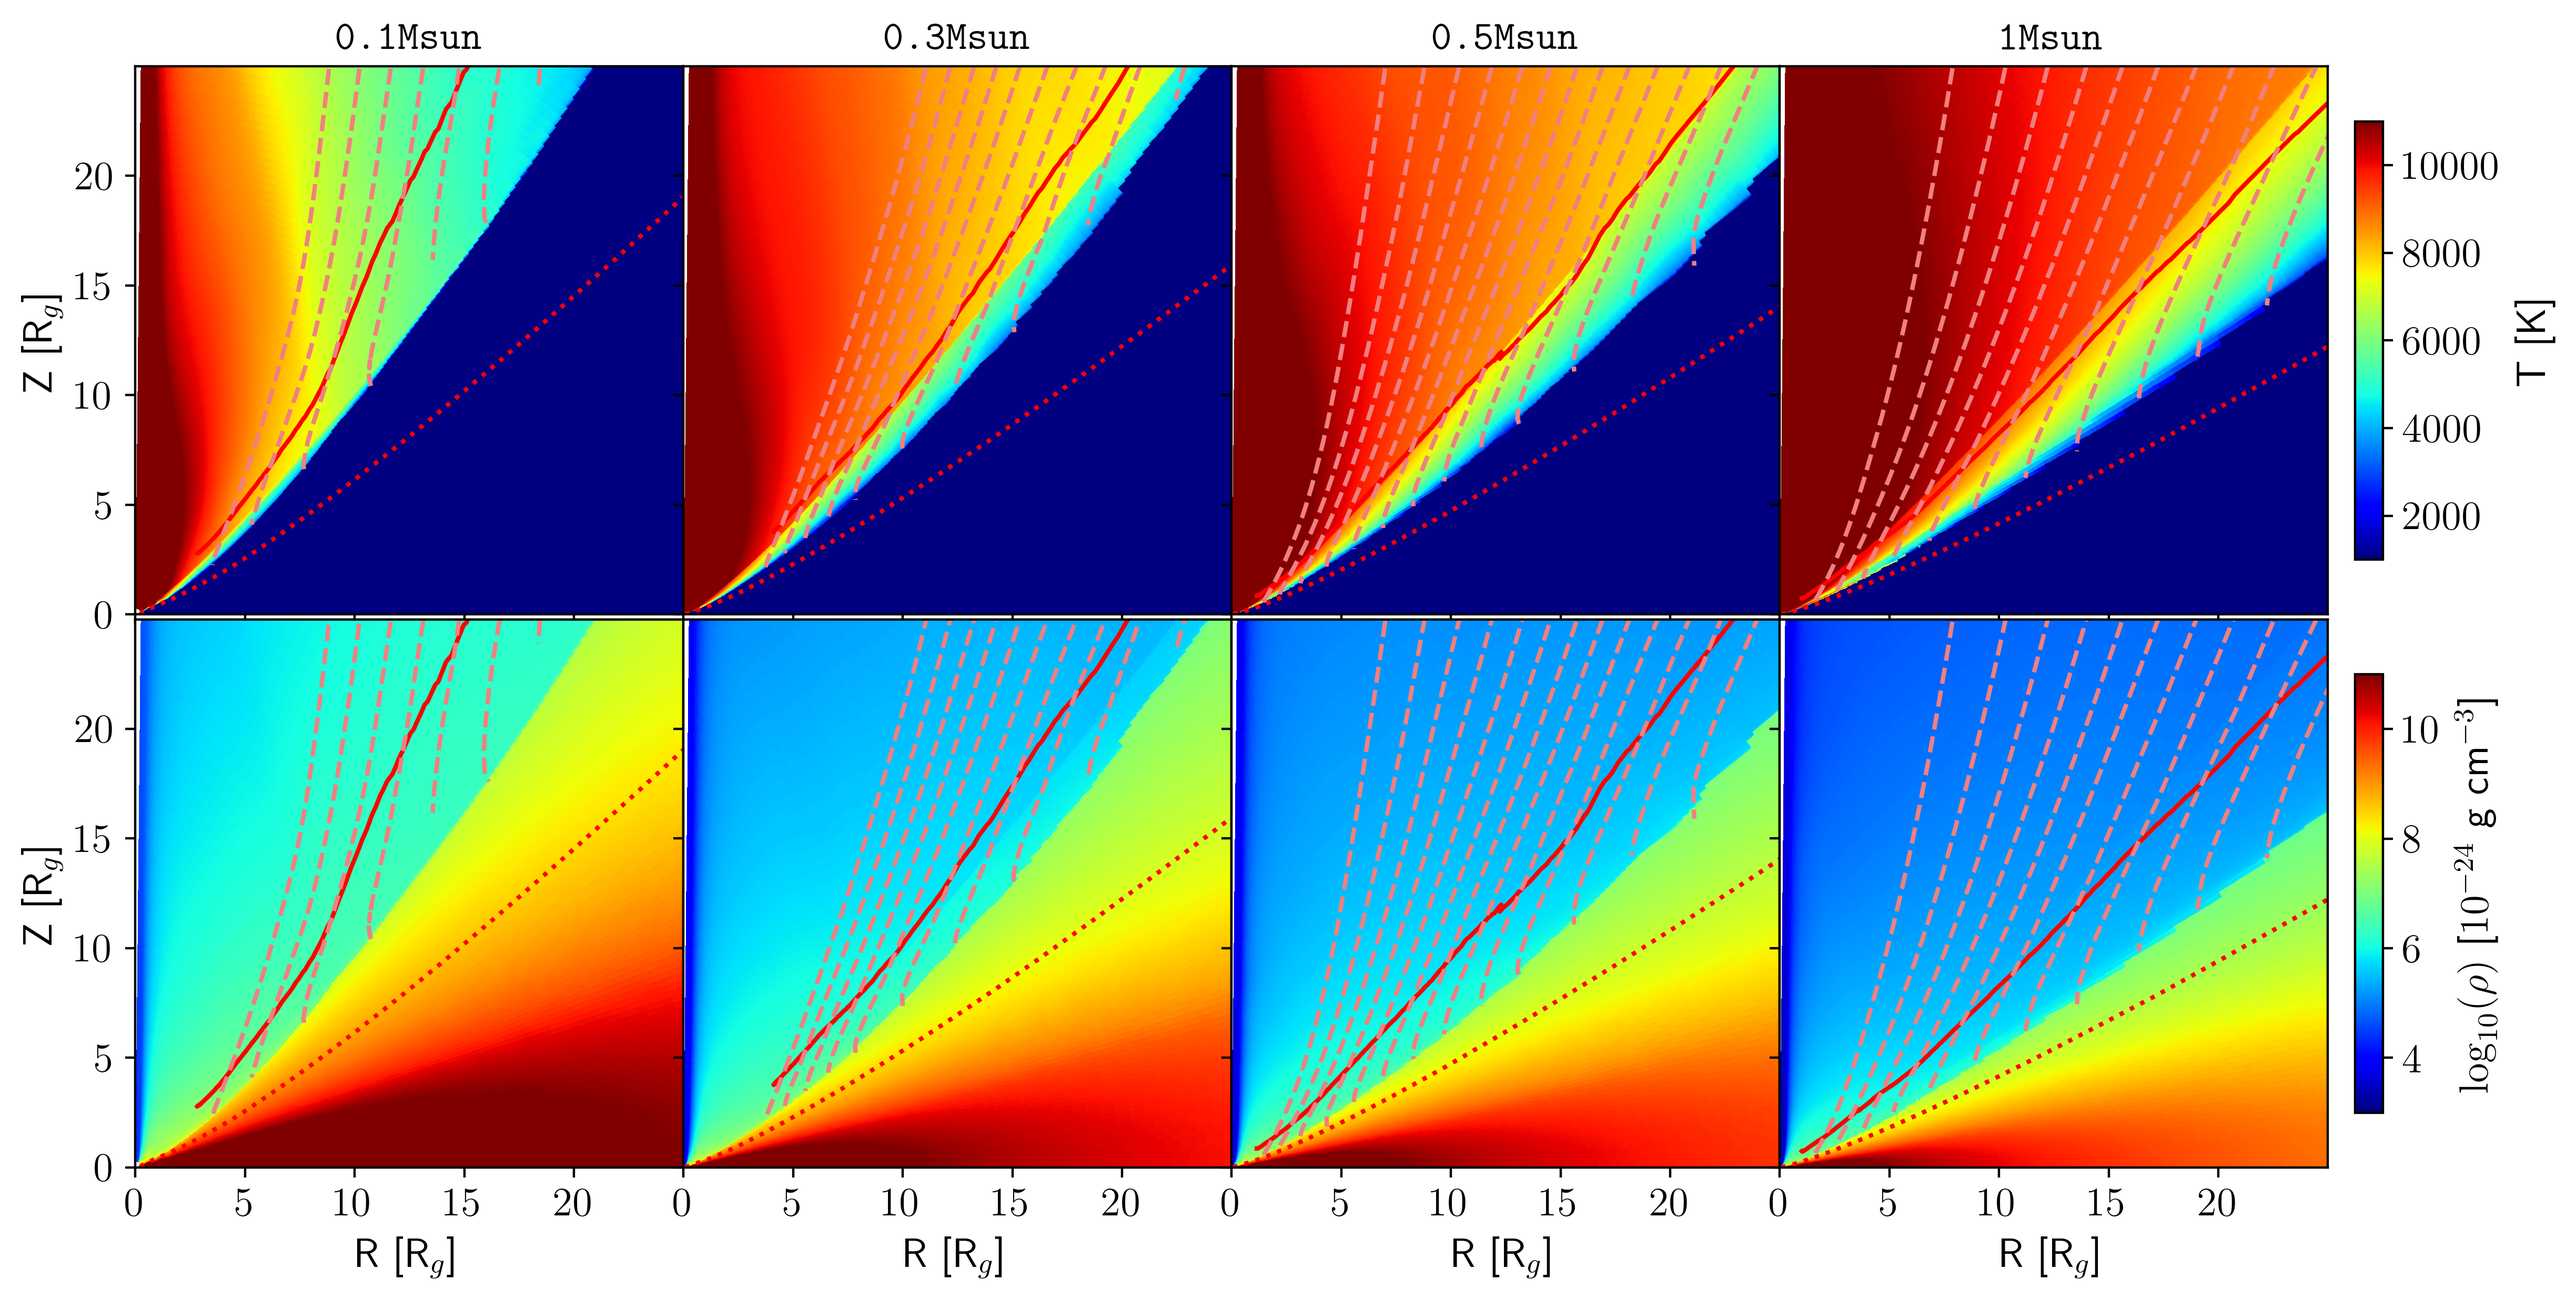
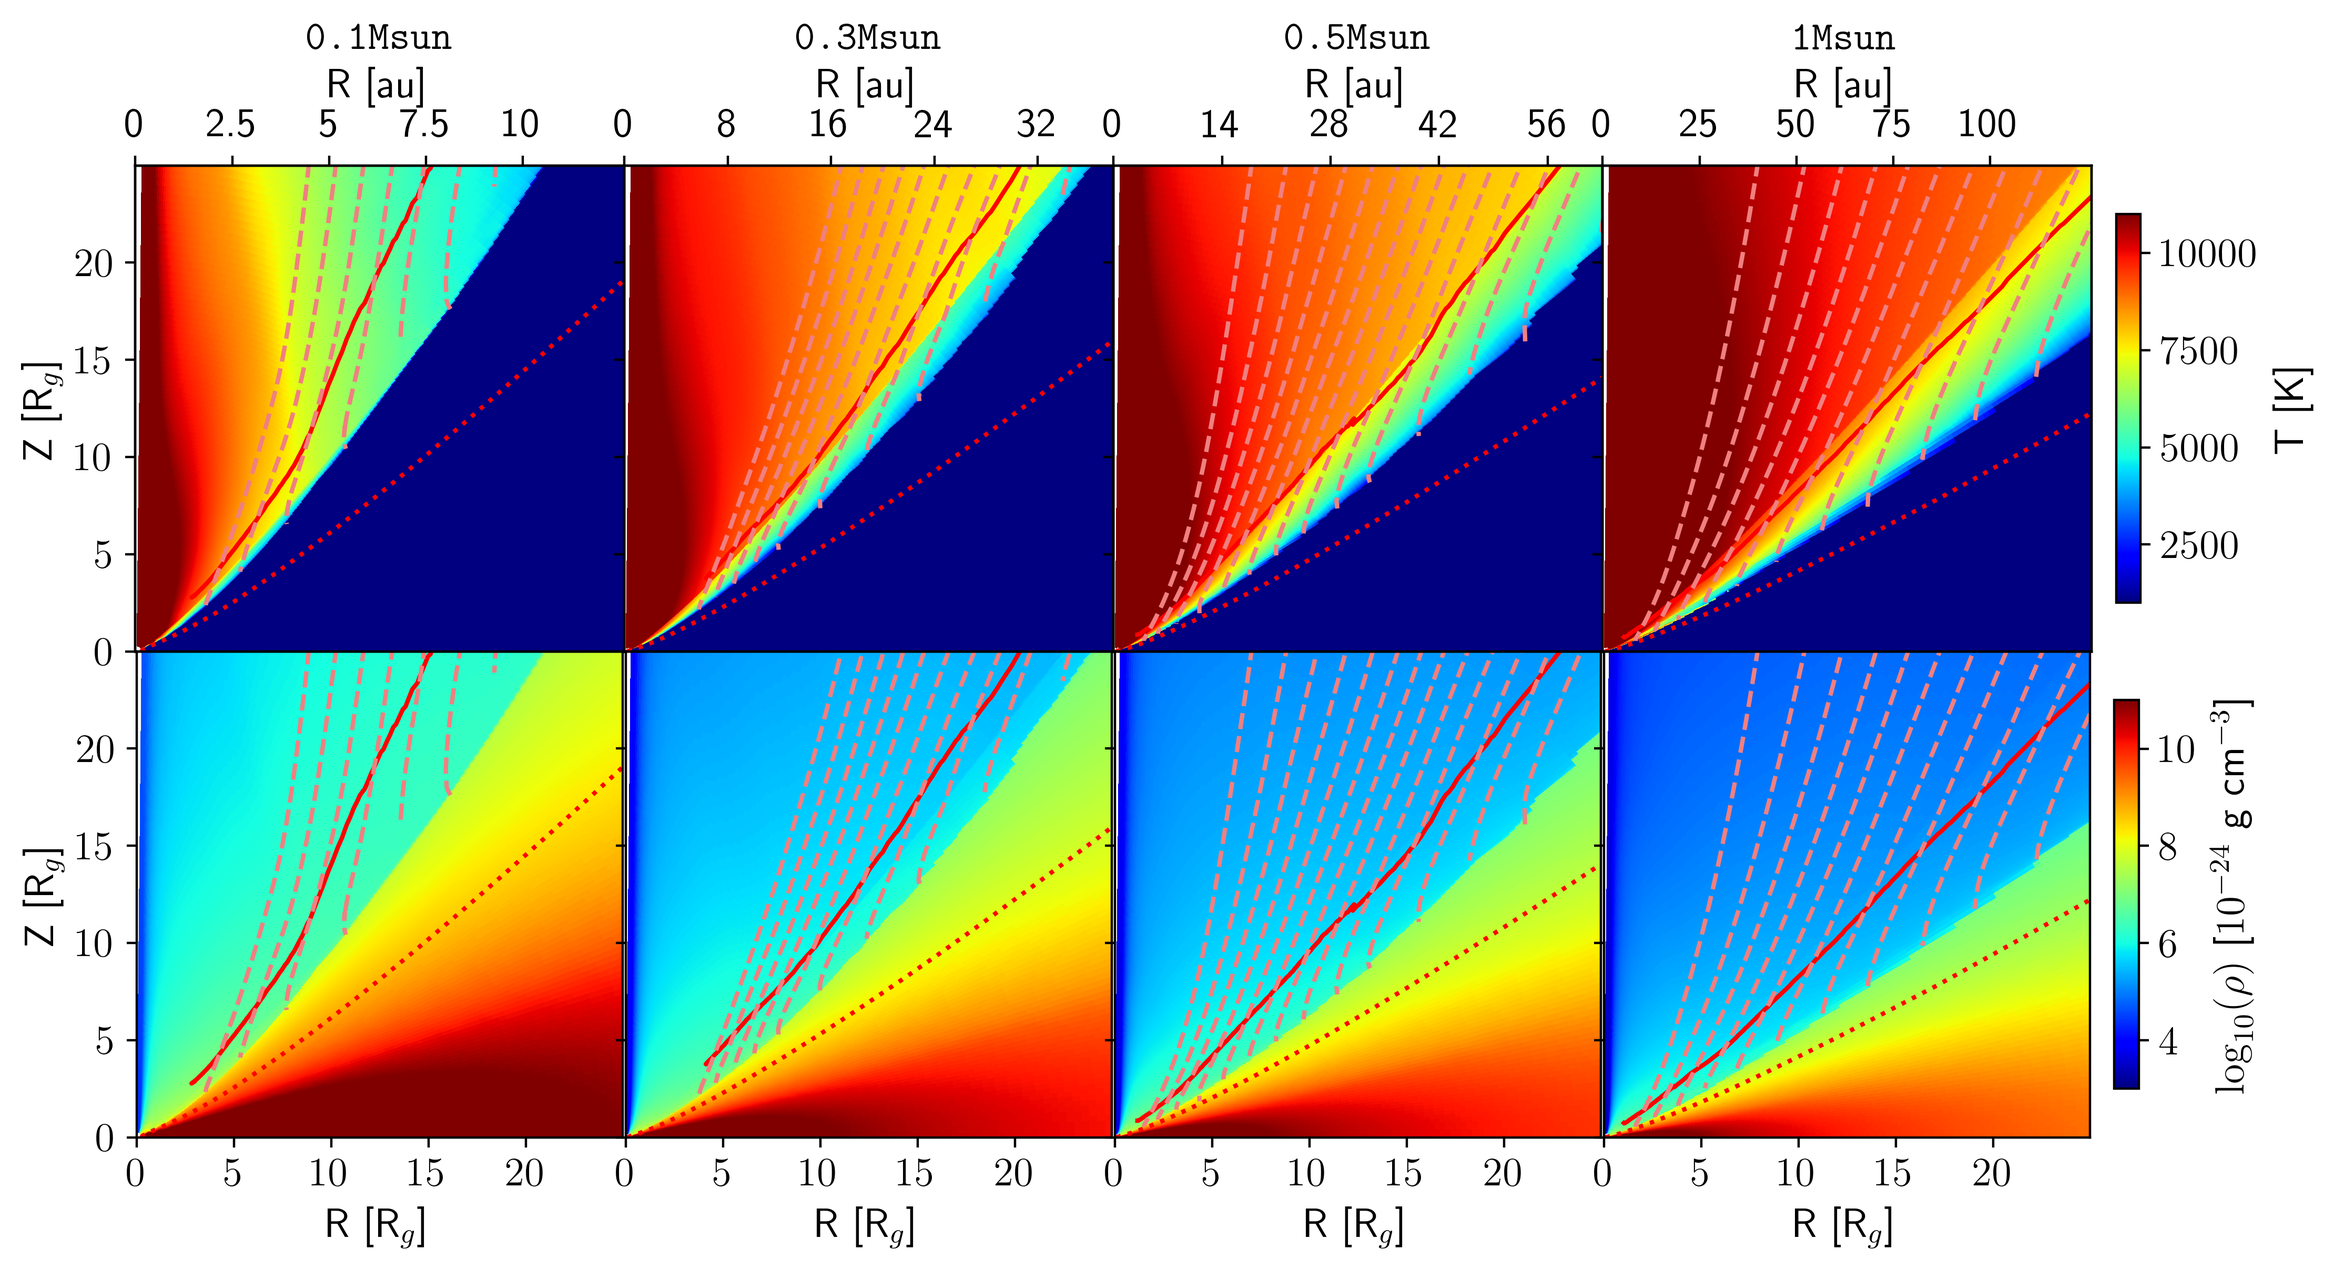
changed scripts Fig. 1 and 4 to add au in the x-axis

diff --git a/script/Figure4.py b/script/Figure4.py
@@ -18,7 +18,7 @@ mu = 2.35
 
 fig = plt.figure()
 gs = fig.add_gridspec(nrows=2, ncols=4, hspace=0, wspace=0)
-ax = gs.subplots(sharex=True, sharey=True)
+ax = gs.subplots(sharex=False, sharey=True)
 
 dirs = [
     "01Msun",
@@ -30,6 +30,10 @@ labels = ["\\texttt{0.1Msun}", "\\texttt{0.3Msun}", "\\texttt{0.5Msun}", "\\text
 Mstar = [0.1, 0.3, 0.5, 1.0]
 index_max = [415, 470, 452, 553]
 
+xtick_label = [[0,2.5,5,7.5,10],
+          [0,8,16,24,32],
+          [0,14,28,42,56],
+          [0,25,50,75,100]]
 xticks = np.arange(0, 21, 5)
 os.chdir("../data/PLUTO/")
 for i in range(2):
@@ -38,13 +42,24 @@ for i in range(2):
         ax[i, j].set_xlim(0, 24.99)
         ax[i, j].set_ylim(0, 24.99)
         ax[i, j].set_aspect("equal")
+        Rg = 5.05 * Mstar[j]
+
         if i == 1:
-            ax[i, j].set_xlabel(r"R [R$_g$]", size=14, color="black")
+            ax[i, j].set_xlabel(r"R [R$_g$]")
+            ax[i, j].set_xticks(xticks)
+        if i == 0:
+            ax[i, j].set_title(labels[j], size=14.0)
+            ax2 = ax[i,j].twiny()
+            ax[i, j].set_xticks([])
+            ax2.set_xlim(ax[i,j].get_xlim())
+            ax2.set_xticks(np.asarray(xtick_label[j])/Rg)
+            ax2.set_xticklabels(xtick_label[j])
+            ax2.set_xlabel(r'R [au]')
         if j == 0:
             ax[i, j].set_ylabel(r"Z [R$_g$]", size=14, color="black")
 
         files = getFilenames()[:]
-        Rg = 5.05 * Mstar[j]
+        
         step = 0
         xcell, ycell, zcell = (getGridCell() * rscale).to(u.cm)
         X = xcell
@@ -52,11 +67,7 @@ for i in range(2):
         D = (getVar(files[step], step, "rho") * rhoscale).to(u.g / u.cm ** 3)
         Pr = (getVar(files[step], step, "prs") * vscale ** 2 * rhoscale).to(u.barye)
         T = ((Pr * mu * const.m_p) / (const.k_B * D)).to(u.K).value
-        vr = (getVar(files[step], step, "vx1") * vscale).to(u.cm / u.s)
-        vth = (getVar(files[step], step, "vx2") * vscale).to(u.cm / u.s)
-        cs2 = (const.G * Mstar[j] * const.M_sun / (2 * X)).to(u.cm ** 2 / u.s ** 2)
-        vel2 = vr ** 2 + vth ** 2
-        Rstart = []
+        
         if i == 0:
             quantity = T
             labelplot = r"T [K]"
@@ -68,8 +79,6 @@ for i in range(2):
             valmin = 3
             valmax = 11
         Cd = getVar(files[step], step, "cd")
-        if i == 0:
-            ax[i, j].set_title(labels[j], size=14.0)
 
         plot = ax[i, j].pcolormesh(
             (X).to(u.AU).value / Rg,
@@ -80,6 +89,7 @@ for i in range(2):
             vmax=valmax,
             cmap=plt.cm.jet,
         )
+
         sonic = np.loadtxt("sonic1.dat")
         soundx = (np.trim_zeros(sonic[:, 0]) * u.cm).to(u.AU)
         soundz = (np.trim_zeros(sonic[:, 1]) * u.cm).to(u.AU)
@@ -99,7 +109,6 @@ for i in range(2):
             linestyles="dotted",
             colors="red",
         )
-        ax[i, j].set_xticks(xticks)
 
         if j == 3:
             fig.subplots_adjust(right=0.9)
@@ -108,8 +117,6 @@ for i in range(2):
             )
             fig.colorbar(plot, ax=ax[i, j], cax=cax, label=labelplot)
         os.chdir("../")
-
-plt.tight_layout(pad=0.0)
 
 os.chdir("../../script")
 fig.savefig("Figure4.png", bbox_inches="tight", dpi=400)

diff --git a/script/Figure1.py b/script/Figure1.py
@@ -21,19 +21,36 @@ Mstars = [0.1, 0.3, 0.5, 1.0]
 
 fig = plt.figure()
 gs = fig.add_gridspec(nrows=2, ncols=4, hspace=0, wspace=0)
-ax = gs.subplots(sharex=True, sharey=True)
+ax = gs.subplots(sharex=False, sharey=True)
 
 labels = ["\\texttt{0.1Msun}", "\\texttt{0.3Msun}", "\\texttt{0.5Msun}", "\\texttt{1Msun}"]
 
 xticks = np.arange(0, 21, 5)
+xtick_label = [[0,2.5,5,7.5,10],
+          [0,8,16,24,32],
+          [0,14,28,42,56],
+          [0,25,50,75,100]]
 
 for i in range(2):
     for j in range(4):
         ax[i, j].set_xlim(0, 24)
         ax[i, j].set_ylim(0, 24)
         ax[i, j].set_aspect("equal")
+
+        Rg = 5.05 * Mstars[j]
+
         if i == 1:
-            ax[i, j].set_xlabel(r"R [R$_g$]", size=14, color="black")
+            ax[i, j].set_xlabel(r"R [R$_g$]")
+            ax[i, j].set_xticks(xticks)
+        if i == 0:
+            ax[i, j].set_title(labels[j], size=14.0)
+            ax2 = ax[i,j].twiny()
+            ax[i, j].set_xticks([])
+            ax2.set_xlim(ax[i,j].get_xlim())
+            ax2.set_xticks(np.asarray(xtick_label[j])/Rg)
+            ax2.set_xticklabels(xtick_label[j])
+            ax2.set_xlabel(r'R [au]')
+
         if j == 0:
             ax[i, j].set_ylabel(r"Z [R$_g$]", size=14, color="black")
         file = basepath + files[j]
@@ -106,8 +123,6 @@ for i in range(2):
         )
         Tdustc = Tdustc.reshape(numz, numr)
 
-        Rg = 5.05 * Mstars[j]
-
         if i == 0:
             quantity = Tdustc
             labelplot = r"T [K]"
@@ -119,10 +134,6 @@ for i in range(2):
             valmin = 3
             valmax = 11
 
-        if i == 0:
-            ax[i, j].set_title(labels[j], size=14.0)
-            ax[i, j].spines["top"].set_visible(True)
-
         plot = ax[i, j].pcolormesh(
             Xc * u.cm.to(u.AU) / Rg,
             Zc * u.cm.to(u.AU) / Rg,
@@ -132,7 +143,6 @@ for i in range(2):
             vmax=valmax,
             cmap=plt.cm.jet,
         )
-        ax[i, j].set_xticks(xticks)
 
         if j == 3:
             fig.subplots_adjust(right=0.9)
@@ -141,6 +151,5 @@ for i in range(2):
             )
             fig.colorbar(plot, ax=ax[i, j], cax=cax, label=labelplot)
 
-plt.tight_layout(pad=0.0)
 fig.savefig("Figure1.png", bbox_inches="tight", dpi=400)
 plt.close(fig)
